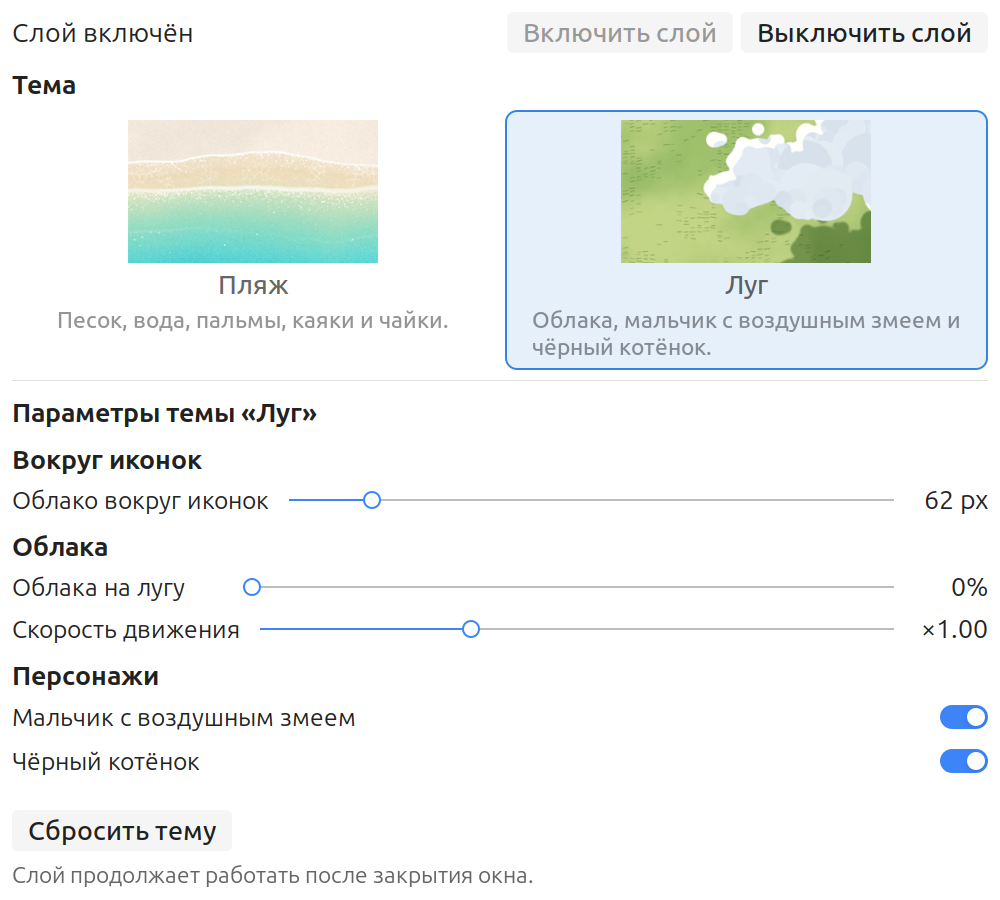
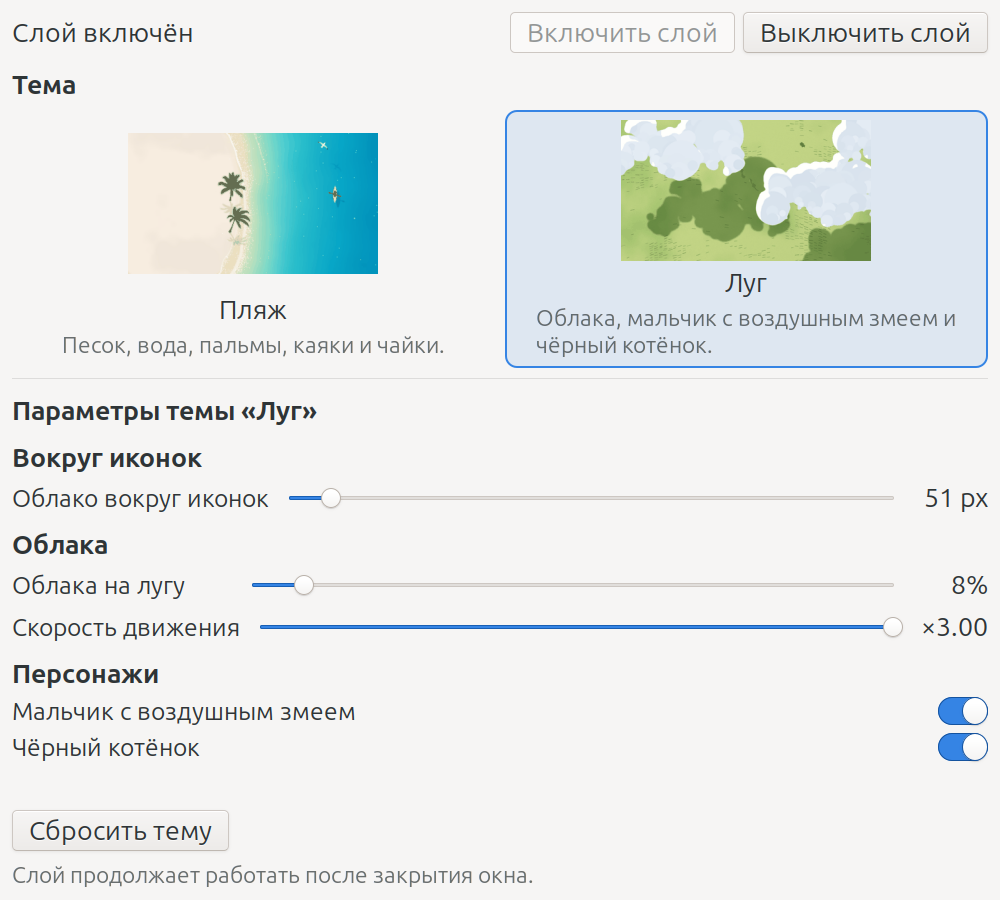
Use animated GIF previews in the theme cards
- animate theme thumbnails in switcher.py with scaled GdkPixbuf frames
- keep the compact card layout and center the preview
- update README screenshot and description

diff --git a/switcher.py b/switcher.py
@@ -38,12 +38,12 @@ THEME_INFO = {
     "beach": {
         "name": "Пляж",
         "desc": "Песок, вода, пальмы, каяки и чайки.",
-        "thumb": "thumbs/beach.webp",
+        "thumb": "docs/theme-beach.gif",
     },
     "meadow": {
         "name": "Луг",
         "desc": "Облака, мальчик с воздушным змеем и чёрный котёнок.",
-        "thumb": "thumbs/meadow.webp",
+        "thumb": "docs/theme-meadow.gif",
     },
 }
 
@@ -160,6 +160,47 @@ def is_running():
     except Exception:
         return False
     return "themehost.py" in cmd
+
+
+class AnimatedThumb(Gtk.DrawingArea):
+    """Анимированный GIF-превью, вписанный в заданный размер."""
+
+    def __init__(self, path, width, height):
+        super().__init__()
+        self.width = width
+        self.height = height
+        self.anim = GdkPixbuf.PixbufAnimation.new_from_file(str(path))
+        self.iter = self.anim.get_iter(None)
+        self.scaled = None
+        self.timer = None
+        self.set_size_request(width, height)
+        self.connect("draw", self._on_draw)
+        self.connect("destroy", self._on_destroy)
+        self.timer = GLib.timeout_add(100, self._tick)
+
+    def _tick(self):
+        changed = self.iter.advance(None)
+        if not changed:
+            self.iter = self.anim.get_iter(None)
+            changed = True
+        if changed:
+            self.scaled = None
+            self.queue_draw()
+        return True
+
+    def _on_draw(self, _widget, cr):
+        if self.scaled is None:
+            pb = self.iter.get_pixbuf()
+            self.scaled = pb.scale_simple(self.width, self.height,
+                                          GdkPixbuf.InterpType.BILINEAR)
+        Gdk.cairo_set_source_pixbuf(cr, self.scaled, 0, 0)
+        cr.paint()
+        return False
+
+    def _on_destroy(self, _widget):
+        if self.timer is not None:
+            GLib.source_remove(self.timer)
+            self.timer = None
 
 
 def fmt_value(p, value, theme_id):
@@ -302,7 +343,9 @@ class Switcher(Gtk.Window):
         card.get_style_context().add_class("theme-card")
         card.set_tooltip_text(info.get("desc", ""))
         box = Gtk.Box(orientation=Gtk.Orientation.VERTICAL, spacing=6)
-        box.pack_start(self._make_thumb(tid), False, False, 0)
+        thumb = self._make_thumb(tid)
+        thumb.set_halign(Gtk.Align.CENTER)
+        box.pack_start(thumb, True, False, 0)
         name = Gtk.Label(label=info.get("name", tid))
         name.set_xalign(0.5)
         box.pack_start(name, False, False, 0)
@@ -319,15 +362,21 @@ class Switcher(Gtk.Window):
 
     def _make_thumb(self, tid):
         info = THEME_INFO.get(tid, {})
-        path = PROTO / info.get("thumb", "thumbs/%s.webp" % tid)
+        width, height = 250, 141
+        path = HERE / info.get("thumb", "prototype/thumbs/%s.webp" % tid)
         try:
-            pb = GdkPixbuf.Pixbuf.new_from_file(str(path))
-            pb = pb.scale_simple(250, 143, GdkPixbuf.InterpType.BILINEAR)
-            img = Gtk.Image.new_from_pixbuf(pb)
+            return AnimatedThumb(path, width, height)
         except Exception:
-            img = Gtk.Image.new_from_icon_name("preferences-desktop-wallpaper",
-                                               Gtk.IconSize.DIALOG)
-        img.set_size_request(250, 143)
+            try:
+                # Запасной вариант — статичное превью из Deskland.
+                pb = GdkPixbuf.Pixbuf.new_from_file(
+                    str(PROTO / "thumbs" / ("%s.webp" % tid)))
+                pb = pb.scale_simple(width, height, GdkPixbuf.InterpType.BILINEAR)
+                img = Gtk.Image.new_from_pixbuf(pb)
+            except Exception:
+                img = Gtk.Image.new_from_icon_name(
+                    "preferences-desktop-wallpaper", Gtk.IconSize.DIALOG)
+        img.set_size_request(width, height)
         return img
 
     # ---------- выбор темы и параметры ----------

diff --git a/README.md b/README.md
@@ -132,7 +132,7 @@ Linux Mint Cinnamon/X11, 2560×1440, тема flat.html, 30 fps**.
 | `start-layer.sh` | Запуск хоста (тема по умолчанию `flat.html`; выбор — в `switcher.py`) |
 | `wall-on.sh` / `wall-off.sh` | Служебные запуск/остановка (вызывает `switcher.py`); перезапуск nemo после снятия слоя |
 | `README.md` | Эта документация |
-| `docs/` | Анимированные превью тем и скриншот панели для README |
+| `docs/` | Анимированные превью тем (README и карточки приложения), скриншот панели |
 | `SAFETY.md` | Контракт безопасности (Dark Mode, kill-политика) |
 | `LICENSE` | Полный текст GNU GPL v3.0 |
 | `NOTICE` | Атрибуция Deskland и trademark-оговорка |
@@ -155,7 +155,8 @@ Linux Mint Cinnamon/X11, 2560×1440, тема flat.html, 30 fps**.
 
 Запуск: ярлык **«Mintland — темы и настройки»** или `python3 switcher.py`.
 
-- карточки готовых тем из `prototype/themes.json` (сейчас Beach и Meadow);
+- карточки готовых тем из `prototype/themes.json` (Beach и Meadow) с
+  анимированными GIF-превью;
 - кнопки **Включить слой** / **Выключить слой**;
 - ползунки параметров выбранной темы: пальмы, каяки, чайки, облака, персонажи;
 - изменения сразу уходят работающему `themehost.py` через `run/control.json`;
